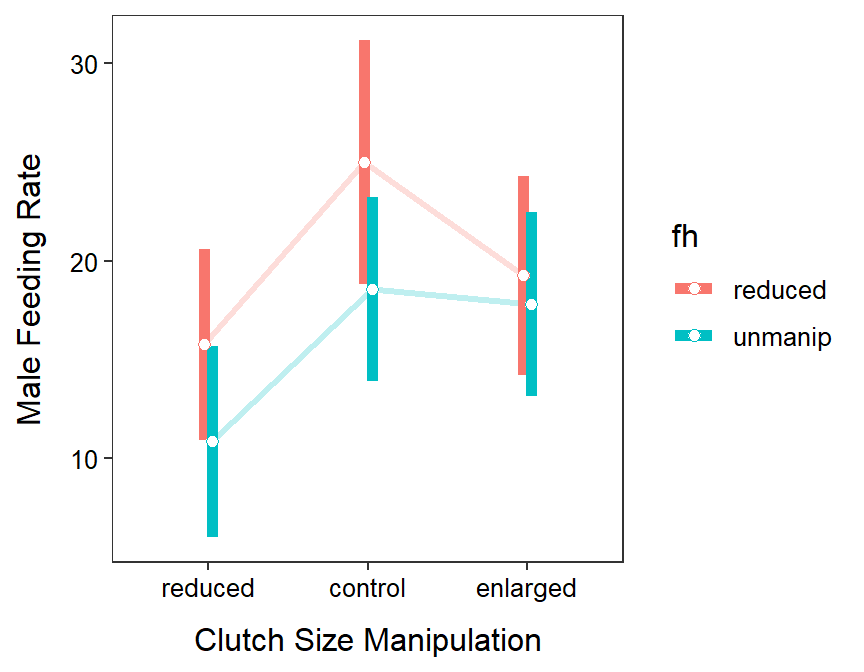
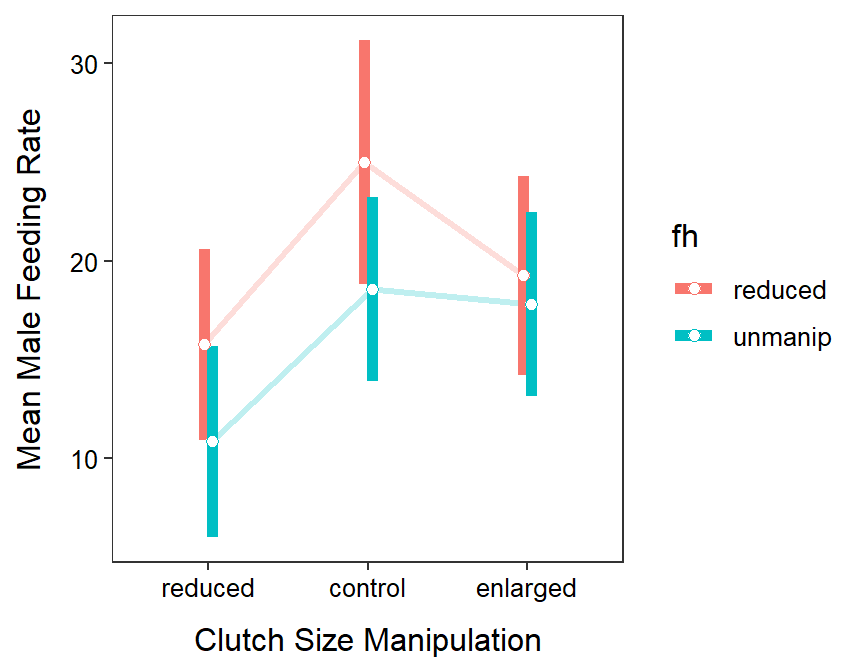
Again

Changed region(s): [[0.0, 0.1562, 0.0625, 0.7188]]

diff --git a/modules/ce/KEY_ANOVA2Summary_CE1.html b/modules/ce/KEY_ANOVA2Summary_CE1.html
@@ -19,8 +19,29 @@ Use the ANOVA table p-value when testing for a difference in group means.
 </div>
 <div id="pied-flycatcher" class="section level1">
 <h1>Pied Flycatcher</h1>
+<p>Sanz (2001) examined the nesting behavior and success for male and female pied flycatchers (<em>Ficedula hypoleuca</em>). He hypothesized that males would be more involved in nesting activities as the level of brood demand increased and as the attractiveness of the male decreased. The author manipulated brood demand by removing two eggs from randomly selected nests and placing these eggs into other randomly selected nests. This created two levels for a clutch-size manipulation factor – reduced and enlarged clutch sizes. A third level consisted of nests where the number of eggs was not manipulated (called the “control” level). The author manipulated the attractiveness of the male by reducing the size of the white patch on the forehead. The forehead patch was reduced in size on randomly selected males by clipping approximately two-thirds of the white feathers. Thus, the experiment consisted of two levels of the forehead patch factor – unmanipulated and reduced. In one aspect of the experiment, Sanz recorded the feeding rate of the male flycatchers on the 13th day post-hatch. The feeding rate was recorded as the number of times the male fed the hatchlings per hour.</p>
+<p>The statistical hypotheses to be examined were</p>
+<p><span class="math display">\[
+\begin{split}
+   H_{0}&amp;: ``\text{no interaction effect&#39;&#39;} \\
+   H_{A}&amp;: ``\text{interaction effect&#39;&#39;}
+\end{split}
+\]</span></p>
+<p><span class="math display">\[
+\begin{split}
+   H_{0}&amp;: ``\text{no clutch size effect&#39;&#39;}: \mu_{reduced} = \mu_{control} = \mu_{enlarged} \\
+   H_{A}&amp;: ``\text{clutch size effect&#39;&#39;}: \text{At least one pair of level means is different}
+\end{split}
+\]</span></p>
+<p><span class="math display">\[
+\begin{split}
+   H_{0}&amp;: ``\text{no attractivness effect&#39;&#39;}: \mu_{reduced} = \mu_{control} \\
+   H_{A}&amp;: ``\text{attractiveness effect&#39;&#39;}: \mu_{reduced} \neq \mu_{control}
+\end{split}
+\]</span></p>
+<p>where <span class="math inline">\(\mu\)</span> is the mean feeding rate of males and the subscripts identify the levels of each factor as defined above.</p>
 <p>This study is not at all balanced as many different sample sizes were in each treatment. It is not clear why this is the case, though I suspect some things went “wrong” in some of the treatments as most sample sizes are near 14 except for the control clutch size and reduce forehead patch size group.</p>
-<p>We really need more information to fully assess independence in this case. However, the author randomly assigned clutch size and forehead manipulations, so the individuals are likely dependent enough. A lack of dependency could come from the nests being in close proximity to each other such that the activities of one male bird would affect the others. There is, however, no evidence to either support or refute this.</p>
+<p>We really need more information to fully assess independence in this case. However, the author randomly assigned clutch size and forehead manipulations, so the individuals are likely independent enough. A lack of dependency could come from the nests being in close proximity to each other such that the activities of one male bird would affect the others. There is, however, no evidence to either support or refute this.</p>
 <p>The variances appear to be equal (Levene’s p=0.5177) and the boxplots of residuals are fairly similar; the residuals do appear to be approximately normally distributed (p=0.5827); and there are no significant outliers (outlier test p&gt;1). The assumptions appear to be met on the original scale and thus will not be transformed.</p>
 <p>There does not appear to be a significant interaction effect (p=0.6072). There does however appear to be main effects for both the clutch size manipulation (p=0.0111) and forehead patch size manipulation (p=0.0499) factors.</p>
 <p>The mean male feeding rate was between 2.10 and 14.22 units lower for the reduced clutch size than the control clutch size (p=0.0054). The mean male feeding rate for the enlarged clutch size did not differ significantly from the control (p=0.4994) or reduced (p=0.0774) clutch sizes. The mean male feeding rate was between 0.03 and 8.19 greater for the reduced forehead flycatchers than those with unmanipulated foreheads (p=0.0482).</p>
@@ -126,7 +147,7 @@ P value adjustment: tukey method for comparing a family of 6 estimates </code></
     geom_line(position=pd,size=1.1,alpha=0.25) +
     geom_errorbar(position=pd,size=2,width=0) +
     geom_point(position=pd,size=2,pch=21,fill=&quot;white&quot;) +
-    labs(y=&quot;Male Feeding Rate&quot;,x=&quot;Clutch Size Manipulation&quot;) +
+    labs(y=&quot;Mean Male Feeding Rate&quot;,x=&quot;Clutch Size Manipulation&quot;) +
     theme_NCStats()</code></pre>
 <p><img src="KEY_ANOVA2Summary_CE1_files/figure-html/unnamed-chunk-5-1.png" width="432" /></p>
 </div>
